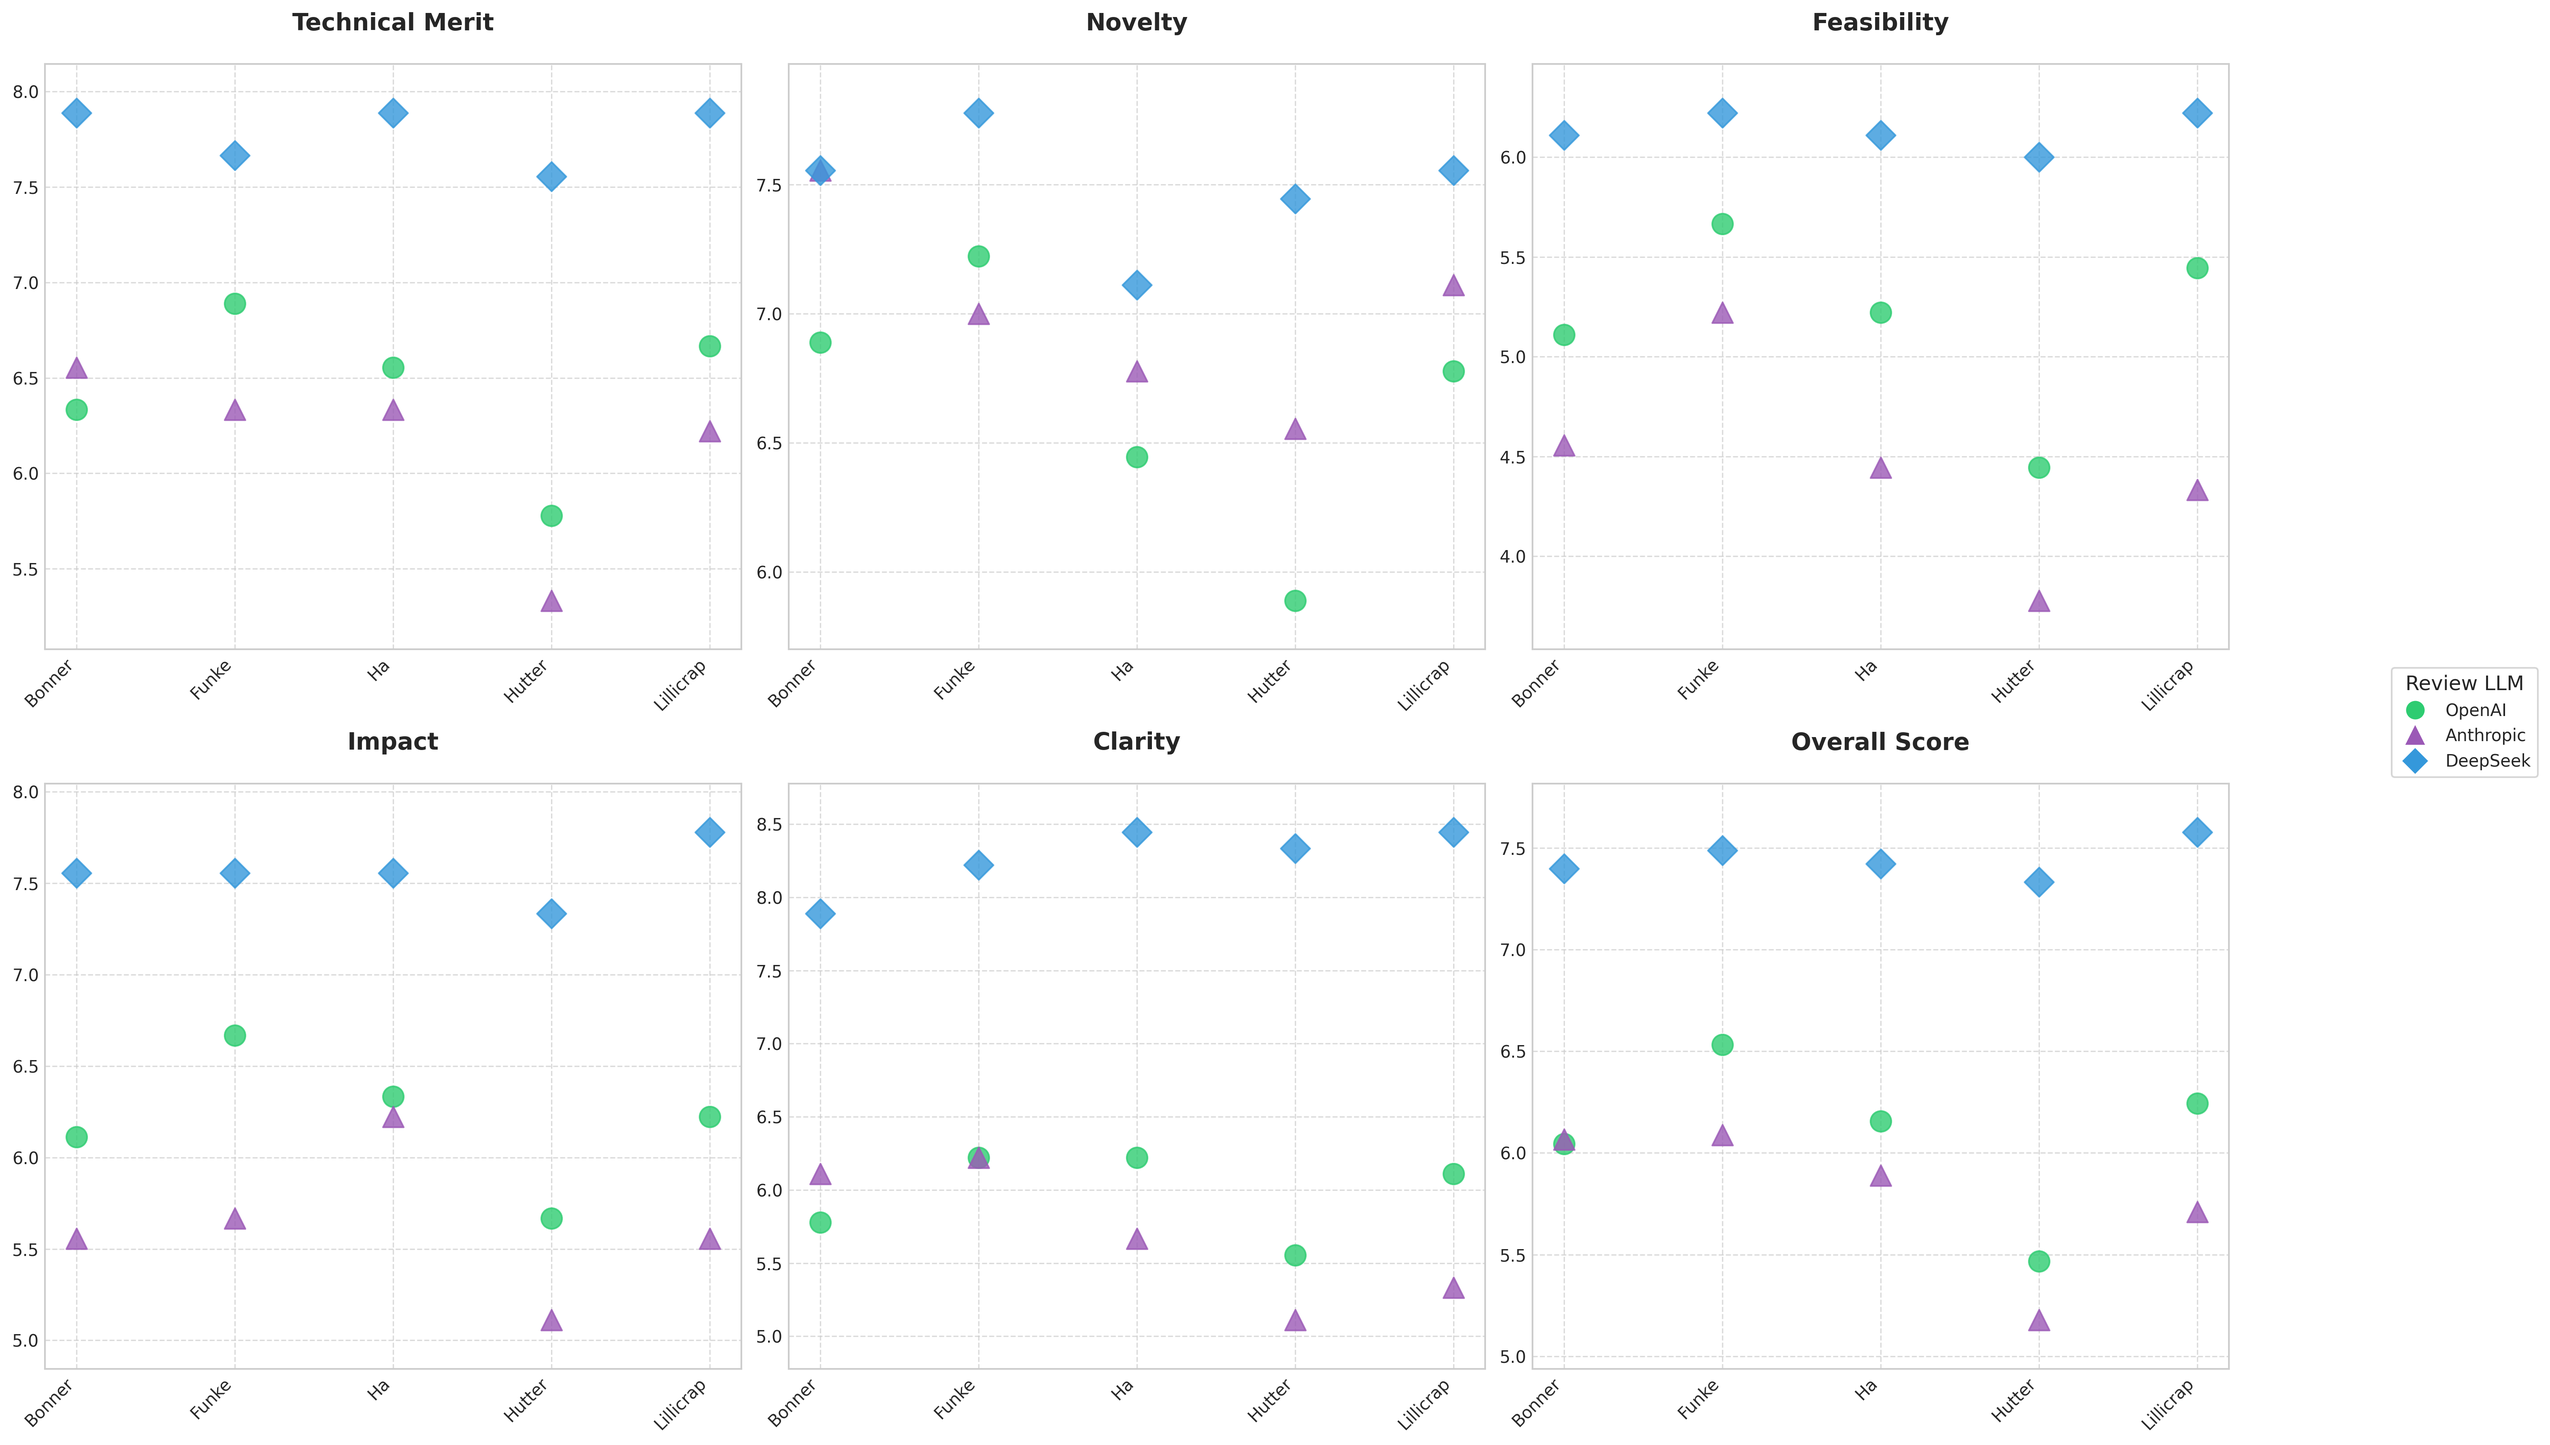
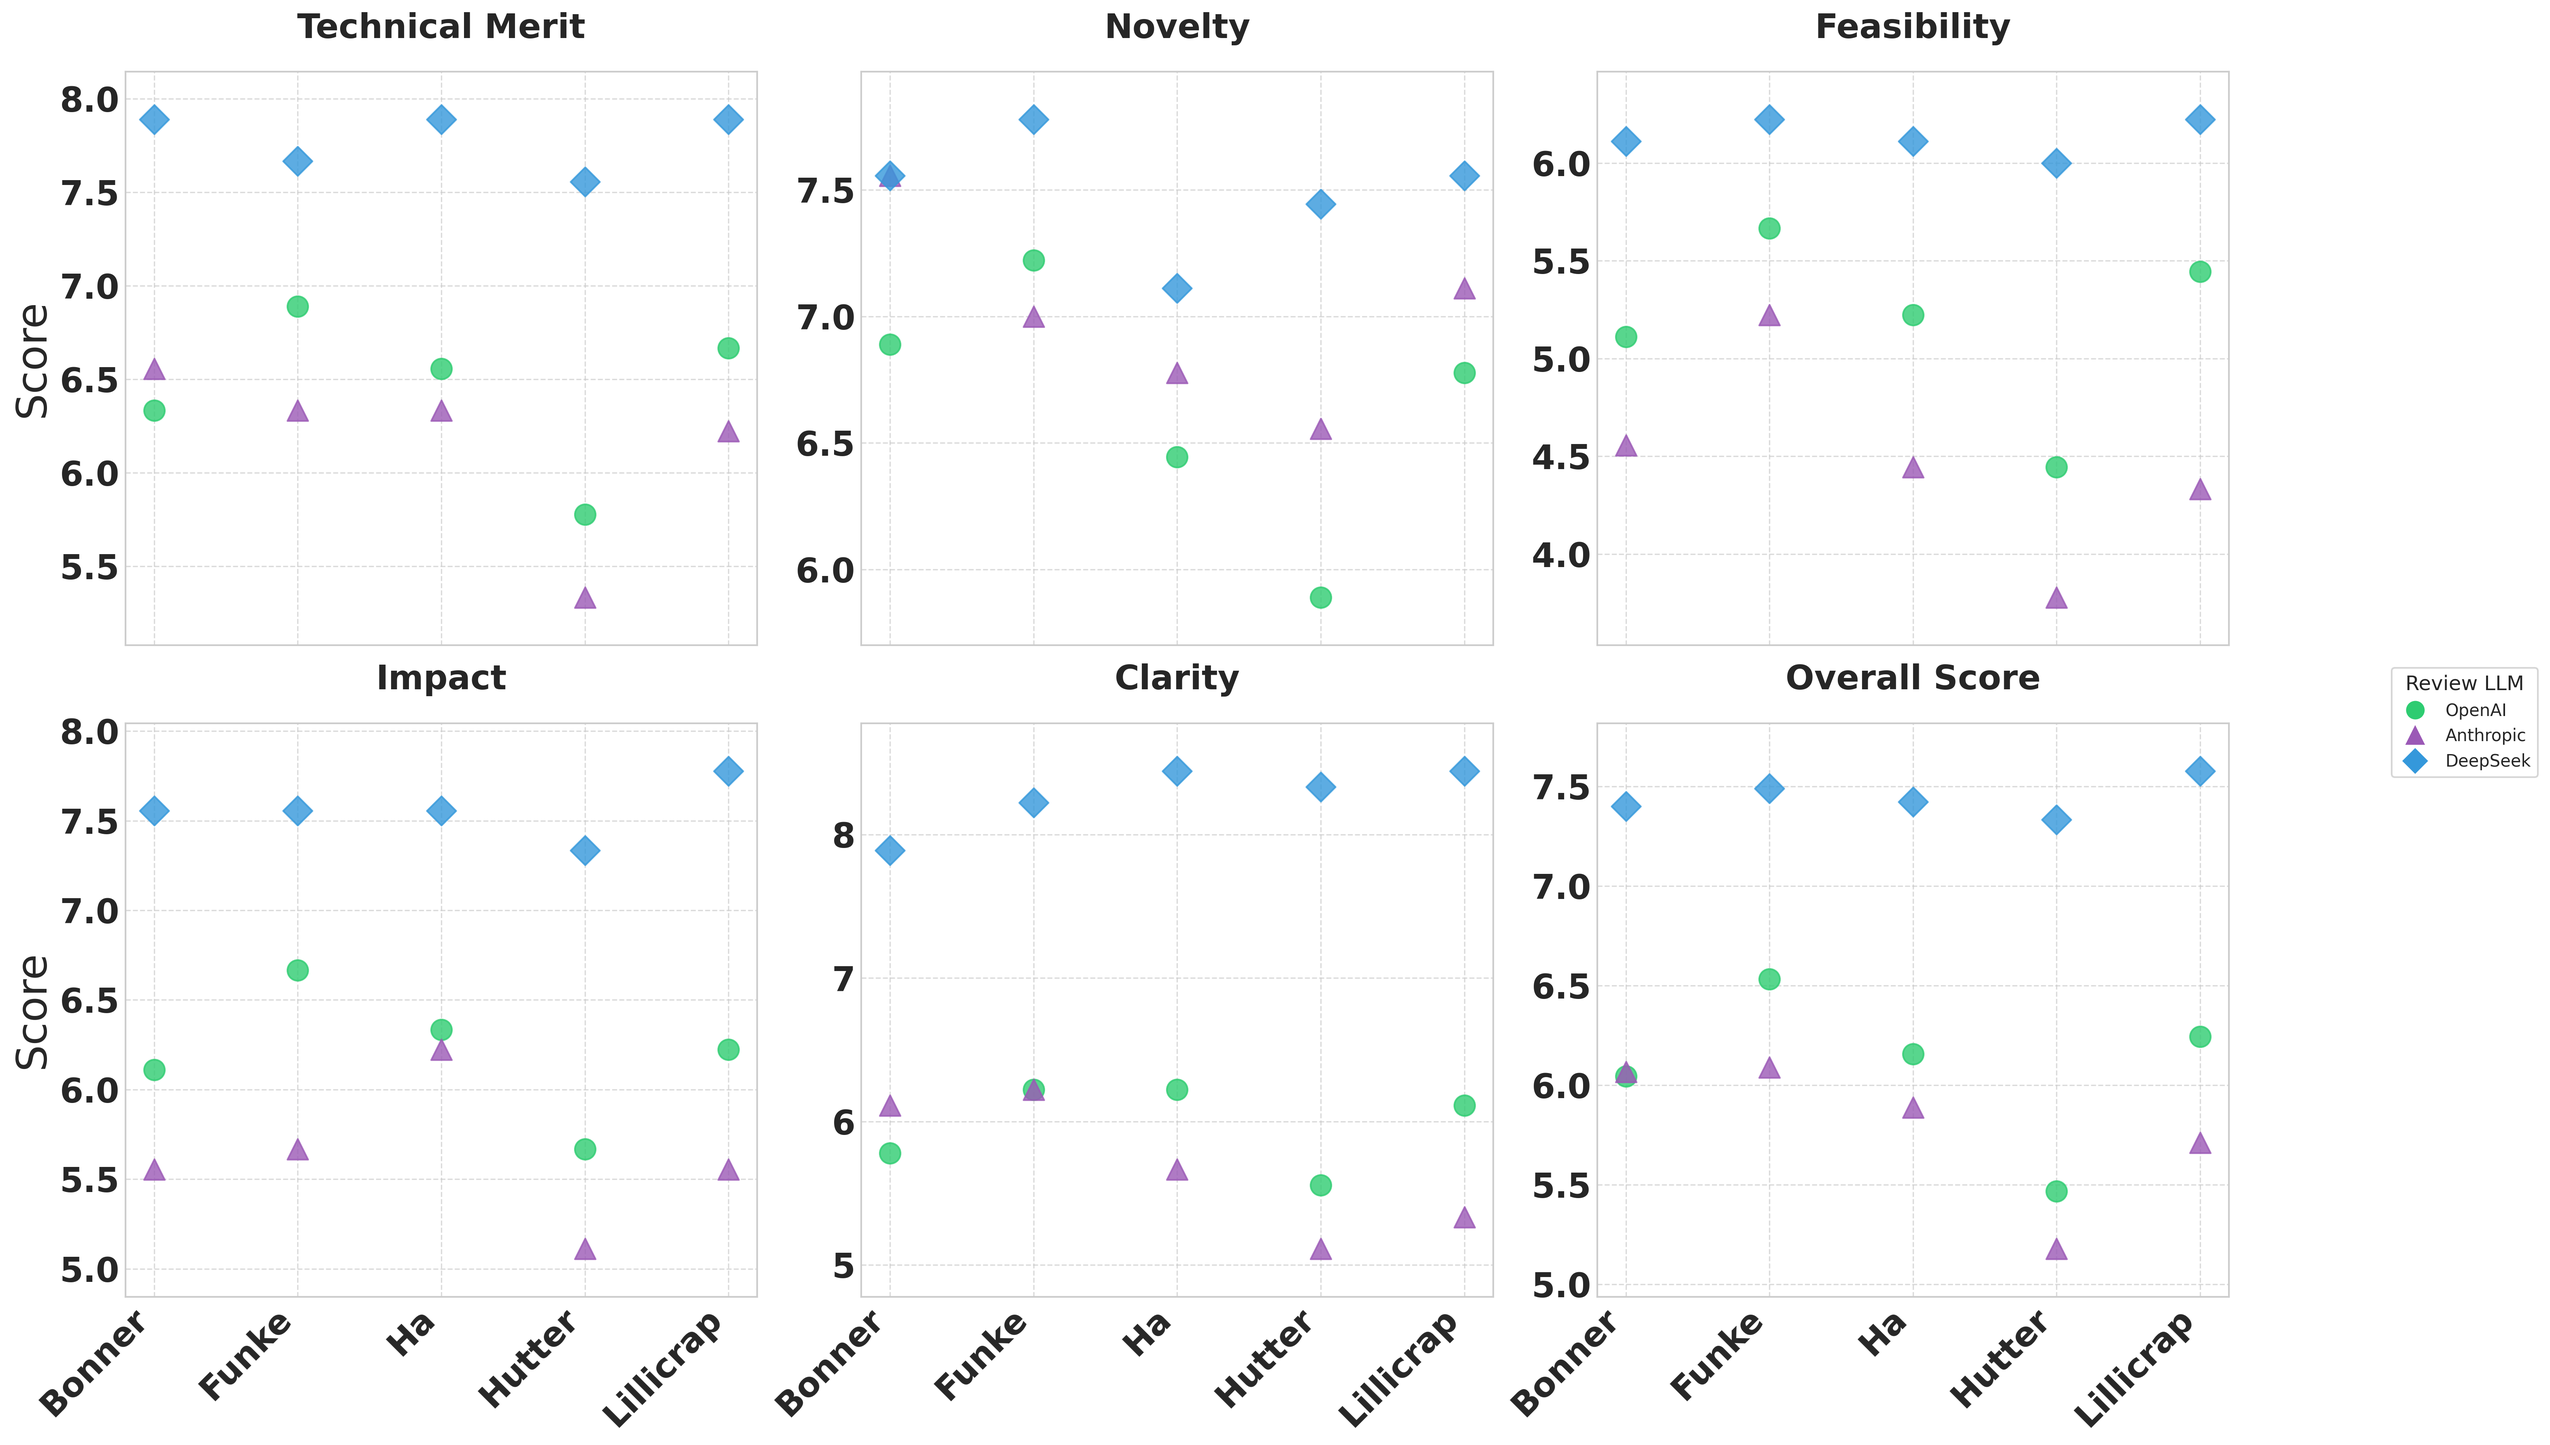
Better formatting for image plotters

diff --git a/plotters/researcher_scores.py b/plotters/researcher_scores.py
@@ -62,13 +62,23 @@ unique_metrics = list(metrics.values())
 # Create subplot grid
 ncols = 3
 nrows = (len(unique_metrics) + ncols - 1) // ncols
-gs = plt.GridSpec(nrows, ncols, figure=fig)
+
+# Create a list to store axes for sharing
+axes = []
 
 # Plot each metric in its own subplot
 for i, metric in enumerate(unique_metrics):
     row = i // ncols
     col = i % ncols
-    ax = fig.add_subplot(gs[row, col])
+    
+    # For first row, create subplot normally
+    if row == 0:
+        ax = plt.subplot(nrows, ncols, i + 1)
+        # Store first row axes for sharing
+        axes.append(ax)
+    else:
+        # Share x axis with corresponding subplot from first row
+        ax = plt.subplot(nrows, ncols, i + 1, sharex=axes[col])
     
     for llm, style in style_dict.items():
         # Filter data for current metric and LLM
@@ -90,13 +100,26 @@ for i, metric in enumerate(unique_metrics):
     
     # Customize x-axis
     ax.set_xticks(range(len(researchers)))
-    ax.set_xticklabels(researchers, rotation=45, ha='right')
+    
+    # Only show x labels for bottom row
+    if row == nrows - 1:
+        ax.set_xticklabels(researchers, rotation=45, ha='right', fontsize=20, fontweight='bold')
+    else:
+        ax.set_xticklabels([])
+        ax.set_xlabel('')
+        ax.tick_params(axis='x', which='both', bottom=False, top=False, labelbottom=False)  # Hide x-axis tick marks and labels
     
     # Add grid
     ax.grid(True, linestyle='--', alpha=0.7)
     
-    # Set title
-    ax.set_title(metric, pad=20, fontsize=14, fontweight='bold')
+    # Set title and labels
+    ax.set_title(metric, pad=20, fontsize=20, fontweight='bold')
+    if col == 0:  # Only add y-label for leftmost plots
+        ax.set_ylabel('Score', fontsize=25)
+    
+    # Make y-axis ticks larger and bold
+    ax.tick_params(axis='y', labelsize=20)
+    plt.setp(ax.get_yticklabels(), fontweight='bold')
     
     # Let y-axis adjust automatically to data range
     ax.margins(y=0.1)

diff --git a/plotters/heatmap_plot_score_variance.py b/plotters/heatmap_plot_score_variance.py
@@ -40,18 +40,34 @@ hm = sns.heatmap(
     cmap=cmap,
     annot=True,
     fmt='.2f',
-    annot_kws={'size': 12, 'weight': 'bold'},
-    cbar_kws={'label': 'Variance'},
+    annot_kws={'size': 14, 'weight': 'bold'},
+    cbar_kws={
+        'label': 'Variance',
+        'shrink': 0.5,
+        'aspect': 5
+    },
     square=True
 )
 
+# Make LLM names title case and larger
+llm_names = [name.title() for name in llm_order]
+plt.xticks(rotation=45, ha='right')
+plt.yticks(rotation=0)
+ax = plt.gca()
+ax.set_xticklabels(llm_names, fontsize=20, fontweight='bold')
+ax.set_yticklabels(llm_names, fontsize=20, fontweight='bold')
+
+# Get the colorbar and modify its label properties
+cbar = ax.collections[0].colorbar
+cbar.ax.set_ylabel('Variance', fontsize=30, fontweight='bold')
+
 # Customize plot
 plt.title('Overall Score Variance\nby LLM Combinations', 
-          fontsize=16, 
+          fontsize=24, 
           fontweight='bold', 
           pad=20)
-plt.xlabel('Review LLM', fontsize=14, fontweight='bold')
-plt.ylabel('Generate LLM', fontsize=14, fontweight='bold')
+plt.xlabel('Review LLM', fontsize=30, fontweight='bold')
+plt.ylabel('Generate LLM', fontsize=30, fontweight='bold')
 
 # Save the plot
 plt.savefig('plotters/imgs/overall_score_variance_heatmap.png', 

diff --git a/plotters/heatmap_plot_scores.py b/plotters/heatmap_plot_scores.py
@@ -32,7 +32,7 @@ fig, axes = plt.subplots(2, 3, figsize=(20, 14))  # Made figure slightly taller
 plt.subplots_adjust(hspace=0.1)  # Increase vertical spacing between subplots
 
 fig.suptitle('Review Metrics Heatmap by LLM Combinations\n(Averaged Across All Researchers)', 
-             fontsize=16, fontweight='bold', y=0.95)  # Adjusted title position
+             fontsize=24, fontweight='bold', y=0.95)  # Adjusted title position
 
 # Flatten axes for easier iteration
 axes_flat = axes.flatten()
@@ -69,10 +69,11 @@ for idx, (metric, color) in enumerate(metrics.items()):
     # Customize each subplot
     axes_flat[idx].set_title(metric.replace('_', ' ').title(), 
                             pad=10, 
-                            fontsize=12, 
+                            fontsize=20, 
+                            fontweight='bold',
                             color=metrics[metric])
-    axes_flat[idx].set_xlabel('Review LLM', fontsize=14, fontweight='bold')
-    axes_flat[idx].set_ylabel('Generate LLM', fontsize=14, fontweight='bold')
+    axes_flat[idx].set_xlabel('Review LLM', fontsize=30, fontweight='bold')
+    axes_flat[idx].set_ylabel('Generate LLM', fontsize=30, fontweight='bold')
 
 # Save the plot
 plt.savefig('plotters/imgs/review_heatmaps.png', 

diff --git a/plotters/bar_plot.py b/plotters/bar_plot.py
@@ -22,8 +22,6 @@ df_filtered['researcher'] = df_filtered['researcher'].fillna('No Researcher')
 # Create subplots
 metrics = ['technical_merit', 'novelty', 'feasibility', 'impact', 'clarity', 'overall_score']
 fig, axes = plt.subplots(2, 3, figsize=(20, 12))
-fig.suptitle('Idea Review Scores by Researcher Agent', 
-             fontsize=16, fontweight='bold', y=1.02)
 
 # Define colors for each metric
 colors = {
@@ -57,12 +55,13 @@ for idx, (ax, metric) in enumerate(zip(axes_flat, metrics)):
     )
     
     # Customize each subplot
-    ax.set_title(metric.replace('_', ' ').title(), pad=10, fontsize=12, color=colors[metric])
+    ax.set_title(metric.replace('_', ' ').title(), pad=10, fontsize=20, color=colors[metric], fontweight='bold')
     ax.set_xlabel('')
-    ax.set_ylabel('Score', fontsize=10)
+    ax.set_ylabel('Score', fontsize=30)
     
-    # Rotate x-axis labels properly
-    plt.setp(ax.get_xticklabels(), rotation=30, ha='right')
+    # Rotate x-axis labels properly and make them bold and larger
+    plt.setp(ax.get_xticklabels(), rotation=30, ha='right', fontsize=20, fontweight='bold')
+    plt.setp(ax.get_yticklabels(), fontsize=20, fontweight='bold')
     
     # Set y-axis range dynamically
     y_min = np.floor(min_val - 1)

diff --git a/plotters/correlation_heatmap.py b/plotters/correlation_heatmap.py
@@ -90,22 +90,23 @@ hm = sns.heatmap(
         'label': 'Average Correlation',
         'shrink': 0.5,  # Make colorbar shorter
         'aspect': 5,    # Make colorbar thicker
-        'pad': 0.02    # Adjust spacing
+        'pad': 0.02,    # Adjust spacing
+        'label_kwargs': {'fontsize': 30, 'fontweight': 'bold'}  # Make colorbar label bold and larger
     }
 )
 
 # Customize labels
 plt.title('Inter-Rater Reliability of LLM Reviews', 
-          fontsize=11, 
+          fontsize=20, 
           fontweight='bold',
           pad=10)
 
-# Make LLM names title case
+# Make LLM names title case and larger
 llm_names = [name.title() for name in avg_correlation.index]
 plt.xticks(rotation=45, ha='right')
 plt.yticks(rotation=0)
-ax.set_xticklabels(llm_names, fontweight='medium')
-ax.set_yticklabels(llm_names, fontweight='medium')
+ax.set_xticklabels(llm_names, fontsize=30, fontweight='bold')
+ax.set_yticklabels(llm_names, fontsize=30, fontweight='bold')
 
 # Adjust layout
 plt.tight_layout()
